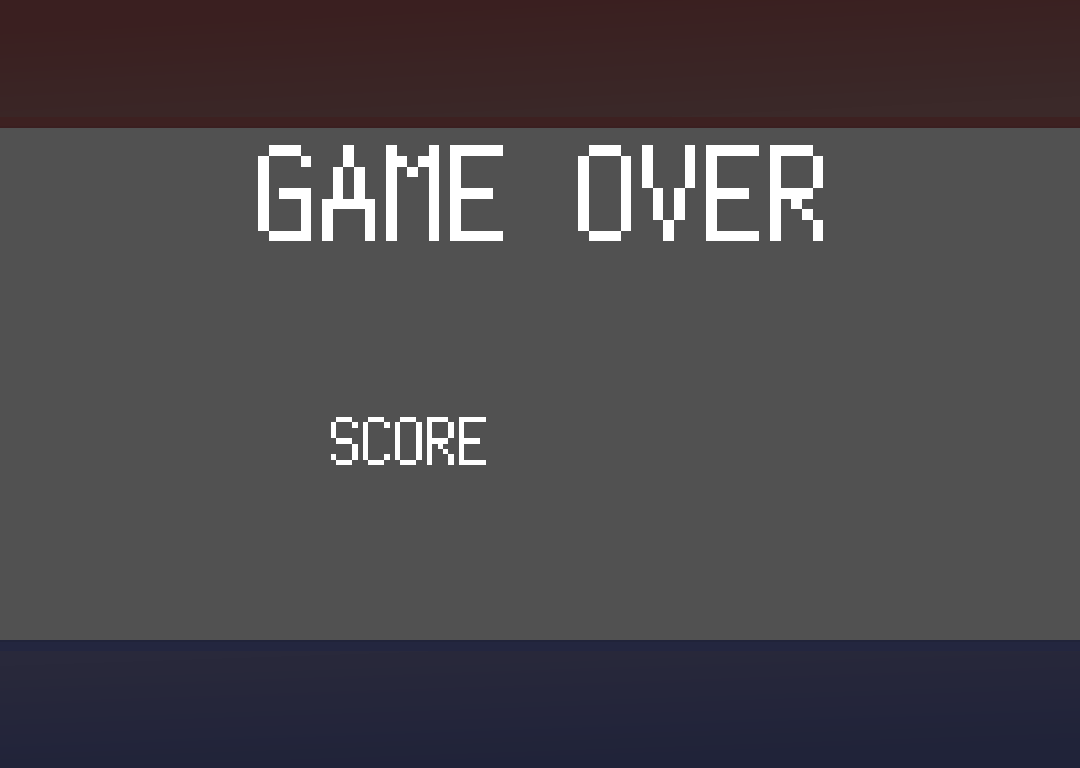
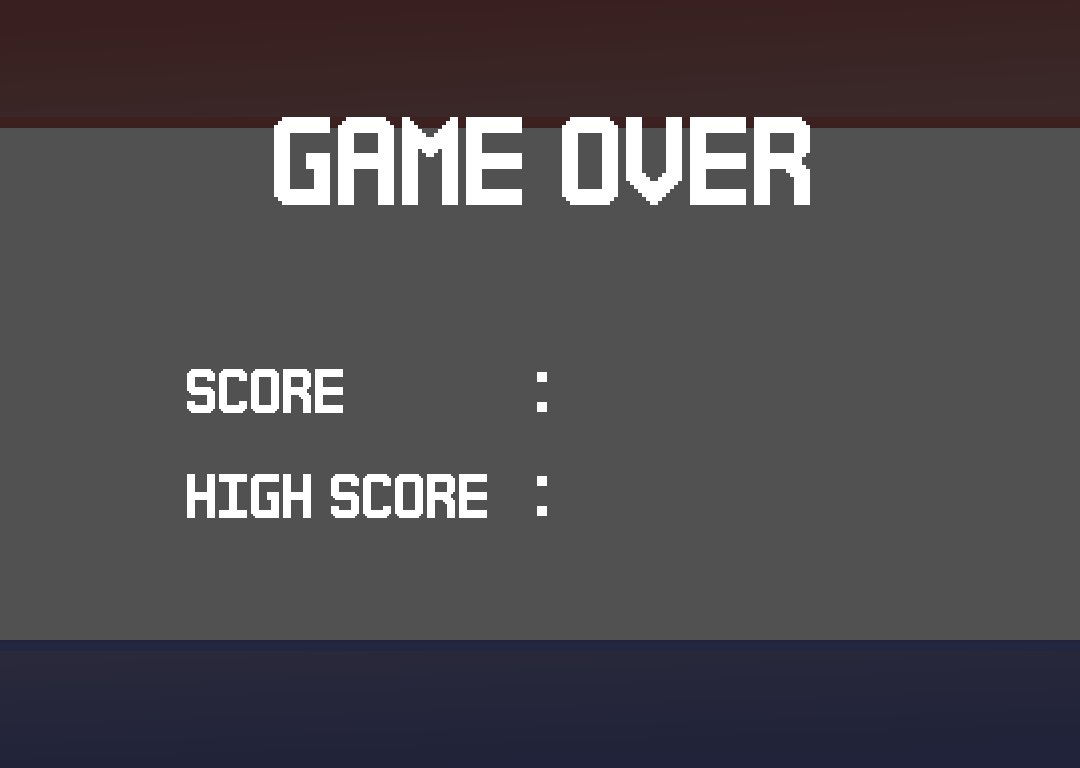
added hight score
+stream contents

diff --git a/DXlib1/DXlib1/Initialize_component.h b/DXlib1/DXlib1/Initialize_component.h
@@ -3,12 +3,16 @@
 #include "win_config.h"
 #include "collision.h"
 #include "key.h"
+#include "color.h"
 #include "using_conponents.h"
 #include <ctime>
 #include <cstdlib>
+#include <string>
+#include <fstream>
+#include <sstream>
 
 void op();
-void end();
+void end(int score);
 void stage();
 void start();
 

diff --git a/DXlib1/DXlib1/color.h b/DXlib1/DXlib1/color.h
@@ -1,0 +1,2 @@
+#pragma once
+#define WHITE GetColor(255, 255, 255)
